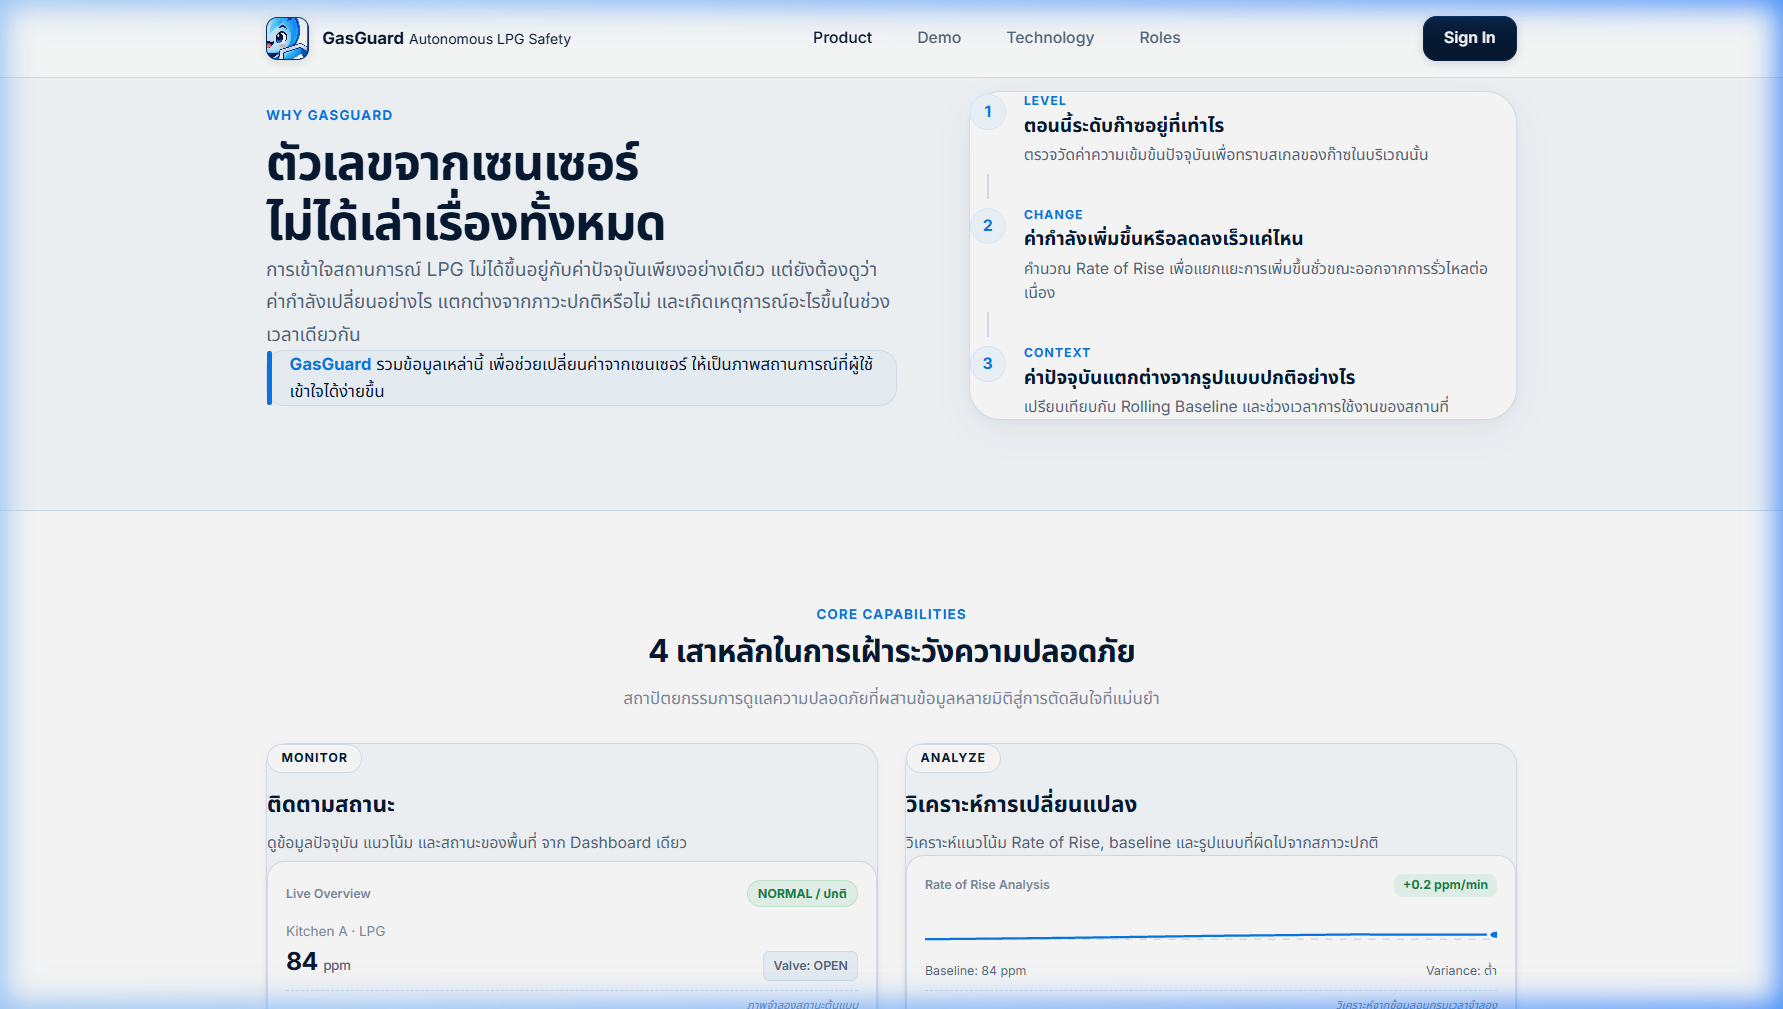
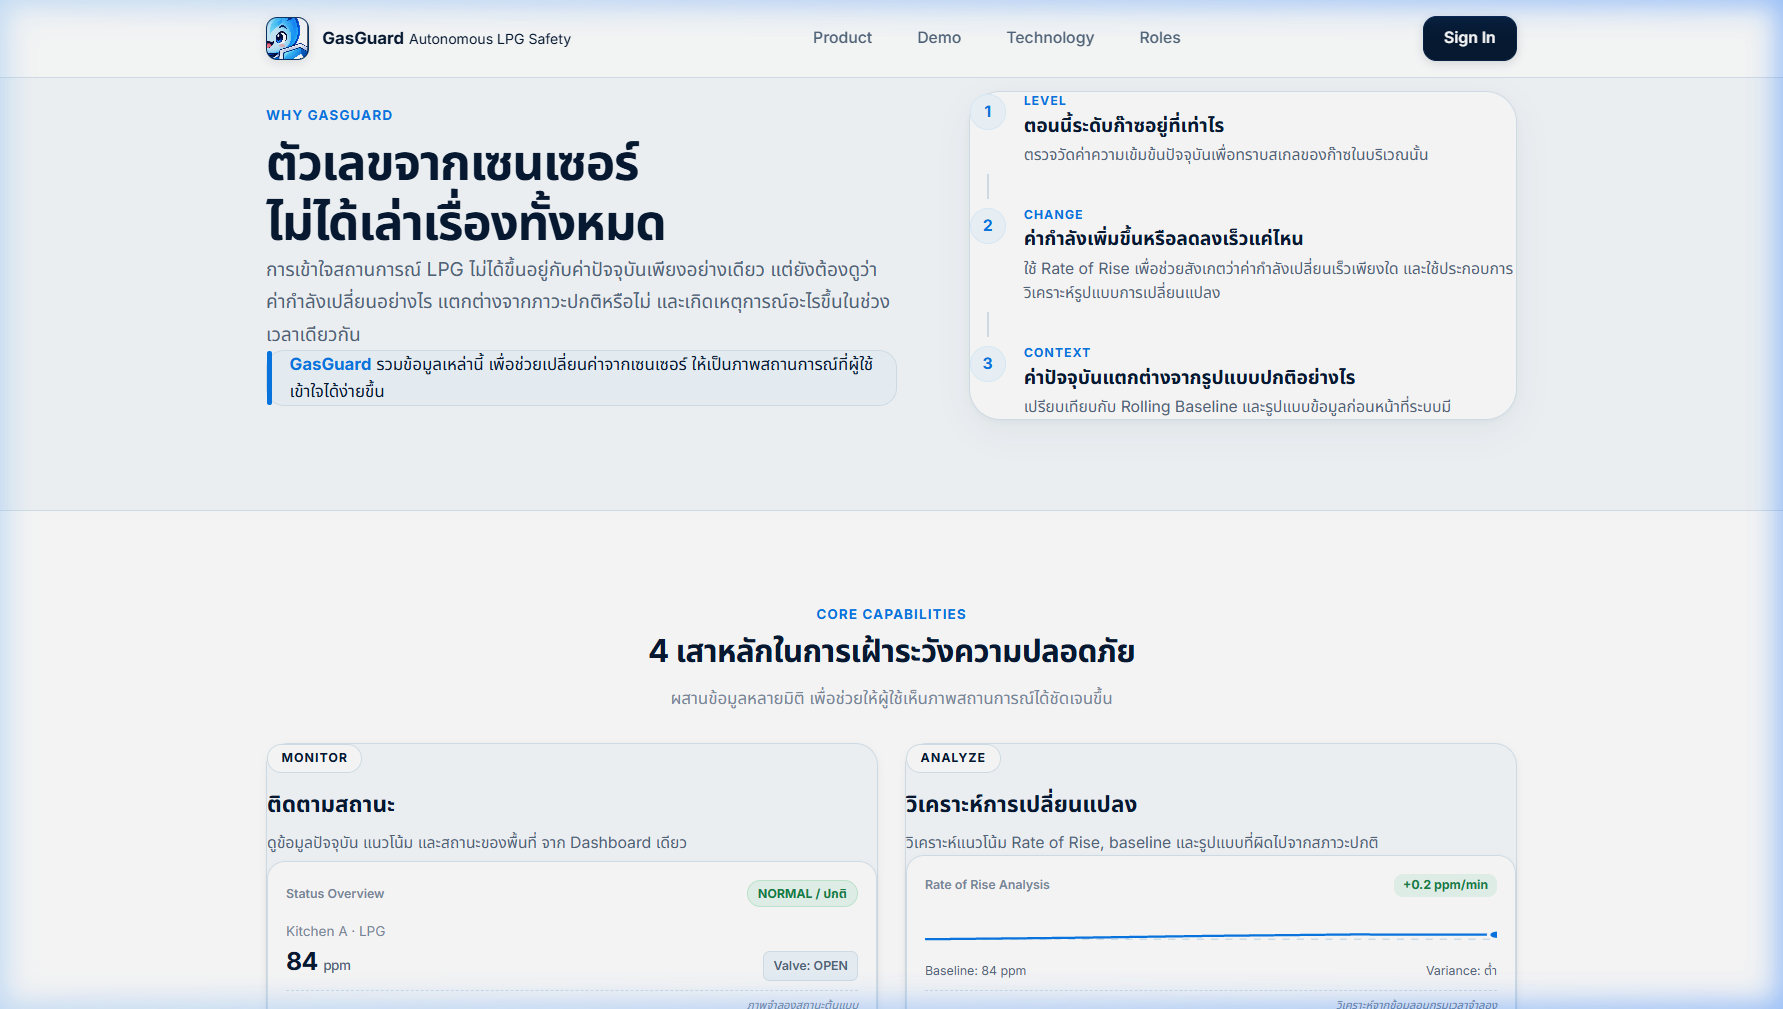
fix: align public product claims with prototype readiness

diff --git a/index.html b/index.html
@@ -155,7 +155,7 @@
                       <strong class="metric-number">92</strong>
                       <span class="metric-unit">/ 100</span>
                     </div>
-                    <span class="metric-subtext is-safe-text">สภาวะปลอดภัย</span>
+                    <span class="metric-subtext is-safe-text">สถานะจำลอง: ปกติ</span>
                   </div>
                 </div>
 
@@ -233,7 +233,7 @@
                 <div class="signal-body">
                   <div class="signal-tag">CHANGE</div>
                   <h3 class="signal-heading">ค่ากำลังเพิ่มขึ้นหรือลดลงเร็วแค่ไหน</h3>
-                  <p class="signal-desc">คำนวณ Rate of Rise เพื่อแยกแยะการเพิ่มขึ้นชั่วขณะออกจากการรั่วไหลต่อเนื่อง</p>
+                  <p class="signal-desc">ใช้ Rate of Rise เพื่อช่วยสังเกตว่าค่ากำลังเปลี่ยนเร็วเพียงใด และใช้ประกอบการวิเคราะห์รูปแบบการเปลี่ยนแปลง</p>
                 </div>
               </div>
 
@@ -244,7 +244,7 @@
                 <div class="signal-body">
                   <div class="signal-tag">CONTEXT</div>
                   <h3 class="signal-heading">ค่าปัจจุบันแตกต่างจากรูปแบบปกติอย่างไร</h3>
-                  <p class="signal-desc">เปรียบเทียบกับ Rolling Baseline และช่วงเวลาการใช้งานของสถานที่</p>
+                  <p class="signal-desc">เปรียบเทียบกับ Rolling Baseline และรูปแบบข้อมูลก่อนหน้าที่ระบบมี</p>
                 </div>
               </div>
             </div>
@@ -258,7 +258,7 @@
           <div class="public-section-head">
             <span class="public-section-kicker">Core Capabilities</span>
             <h2 class="public-section-title" id="public-capabilities-title">4 เสาหลักในการเฝ้าระวังความปลอดภัย</h2>
-            <p class="public-section-desc">สถาปัตยกรรมการดูแลความปลอดภัยที่ผสานข้อมูลหลายมิติสู่การตัดสินใจที่แม่นยำ</p>
+            <p class="public-section-desc">ผสานข้อมูลหลายมิติ เพื่อช่วยให้ผู้ใช้เห็นภาพสถานการณ์ได้ชัดเจนขึ้น</p>
           </div>
 
           <div class="public-capabilities-grid">
@@ -273,7 +273,7 @@
               </div>
               <div class="capability-fragment" aria-label="ตัวอย่างส่วนแสดงผล MONITOR">
                 <div class="fragment-head">
-                  <span class="fragment-label">Live Overview</span>
+                  <span class="fragment-label">Status Overview</span>
                   <span class="fragment-status-pill is-safe">NORMAL / ปกติ</span>
                 </div>
                 <div class="fragment-metric-row">
@@ -332,7 +332,7 @@
                 </div>
                 <div class="fragment-reason-box">
                   <strong>เหตุผลการประเมิน:</strong>
-                  <p>ระดับก๊าซใกล้เคียง Baseline อัตราคงที่ ไม่มีหลักฐานความเสี่ยงเร่งด่วน</p>
+                  <p>ในตัวอย่างจำลองนี้ ค่าค่อนข้างคงที่และใกล้ Baseline ระบบกฎต้นแบบจึงจัดสถานะเป็นปกติ</p>
                 </div>
                 <span class="fragment-disclose">Safety Rule Engine v0.1 (Rule-based)</span>
               </div>
@@ -350,7 +350,7 @@
               <div class="capability-fragment" aria-label="ตัวอย่างส่วนแสดงผล RESPOND">
                 <div class="fragment-head">
                   <span class="fragment-label">Timeline &amp; Audit Trail</span>
-                  <span class="fragment-audit-badge">Verified</span>
+                  <span class="fragment-audit-badge">Recorded</span>
                 </div>
                 <div class="fragment-timeline-item">
                   <span class="timeline-dot is-safe"></span>
@@ -383,7 +383,7 @@
             <div class="public-pipe-step" role="listitem">
               <div class="public-pipe-num">2</div>
               <strong>Measurement Layer</strong>
-              <small>ตรวจสอบโครงสร้างข้อมูล Bounds และแปลงสัญญาณดิบเป็น Physical ppm</small>
+              <small>ตรวจสอบโครงสร้างข้อมูล และเตรียมข้อมูลสำหรับการแปลงเป็น ppm ตามสถานะการ Calibration</small>
             </div>
             <div class="public-pipe-step" role="listitem">
               <div class="public-pipe-num">3</div>
@@ -398,7 +398,7 @@
             <div class="public-pipe-step" role="listitem">
               <div class="public-pipe-num">5</div>
               <strong>Alerts &amp; Events</strong>
-              <small>จำแนกระดับความเสี่ยง บันทึก Timeline และสร้าง Evidence Package</small>
+              <small>จำแนกระดับความเสี่ยง บันทึก Timeline และบันทึกเหตุการณ์และข้อมูลประกอบการตรวจสอบย้อนหลัง</small>
             </div>
             <div class="public-pipe-step" role="listitem">
               <div class="public-pipe-num">6</div>

diff --git a/docs/screenshots/sprint-02/manifest.md b/docs/screenshots/sprint-02/manifest.md
@@ -26,3 +26,4 @@
 - **Secrets & Credentials**: Checked — zero credentials, API keys, or private tokens present.
 - **Personal Data**: Checked — zero personal or sensitive user data present.
 - **Prototype / Demo Disclosures**: Clearly visible on all fragments (`ภาพจำลองสถานะต้นแบบ`, `วิเคราะห์จากข้อมูลอนุกรมเวลาจำลอง`, `Safety Rule Engine v0.1 (Rule-based)`, `เก็บบันทึกหลักฐานเพื่อตรวจสอบย้อนหลัง`).
+- **Product Truthfulness & Prototype Alignment**: Verified — claims aligned with prototype readiness (`Status Overview`, prototype rule-based reasoning, `Recorded` badge, no uncalibrated physical ppm or unbacked leak diagnosis claims).
